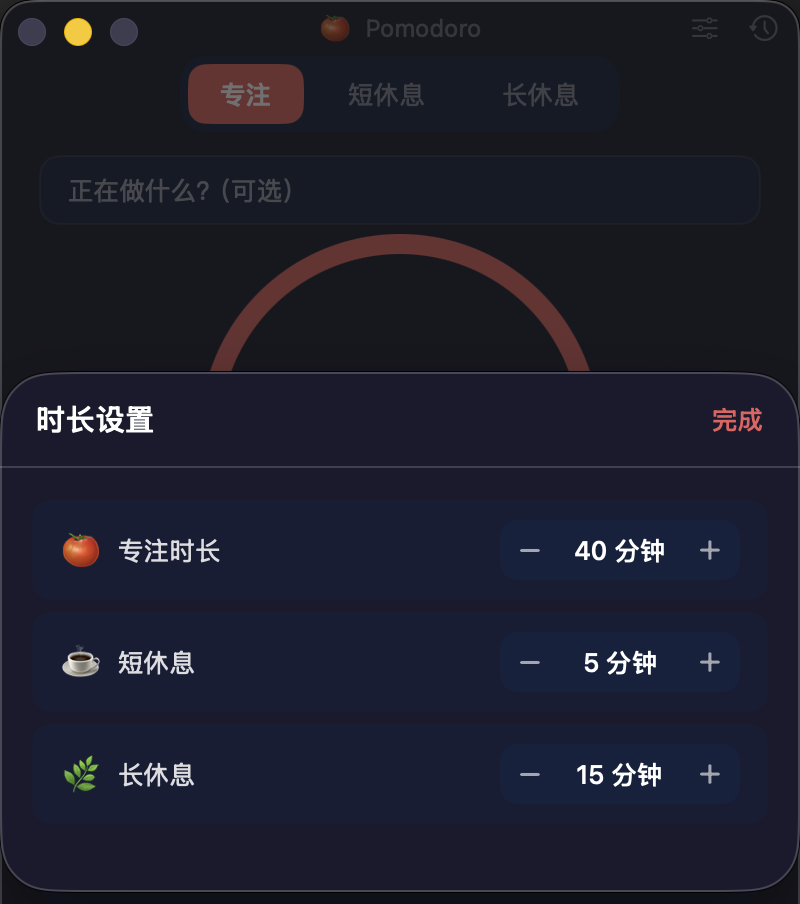
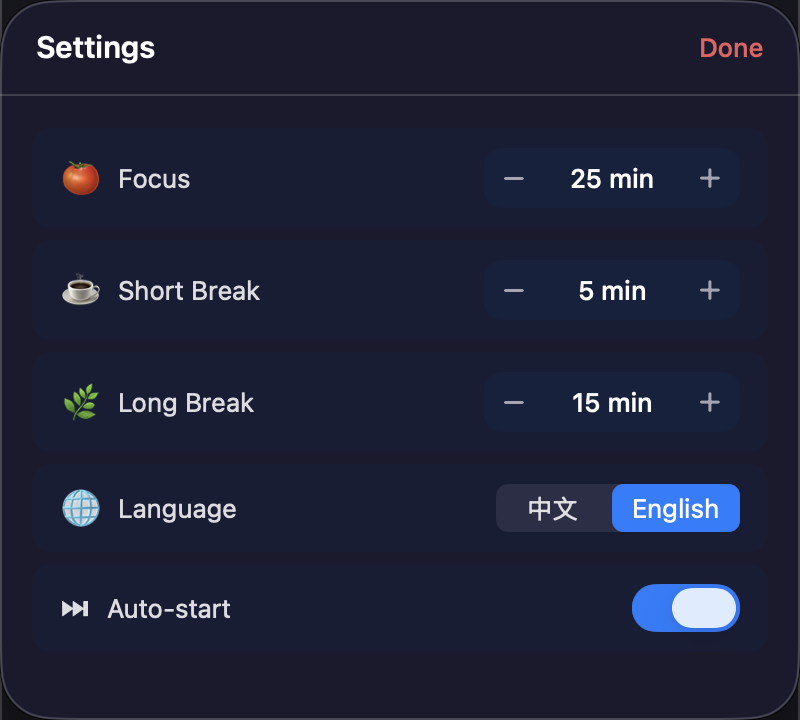
Update screenshots: settings with Auto-start toggle, history with weekly bar chart

diff --git a/README.md b/README.md
@@ -22,9 +22,11 @@ A minimal macOS Pomodoro timer built with Swift + SwiftUI.
 ## Screenshots
 
 <div align="center">
-  <img src="screenshots/main.png" width="320" alt="Main window" />
-  &nbsp;&nbsp;&nbsp;
-  <img src="screenshots/settings.png" width="320" alt="Settings" />
+  <img src="screenshots/main.png" width="260" alt="Main window" />
+  &nbsp;&nbsp;
+  <img src="screenshots/settings.png" width="260" alt="Settings with Auto-start" />
+  &nbsp;&nbsp;
+  <img src="screenshots/history.png" width="260" alt="History with weekly chart" />
 </div>
 
 ## Build & Run